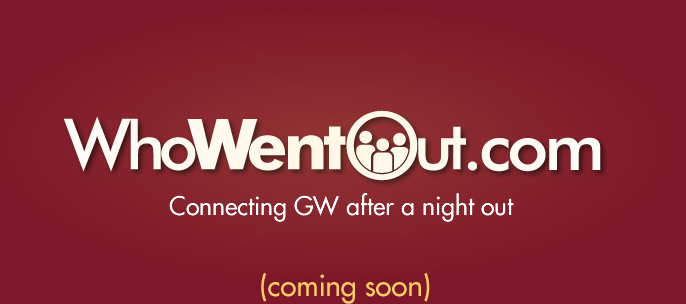
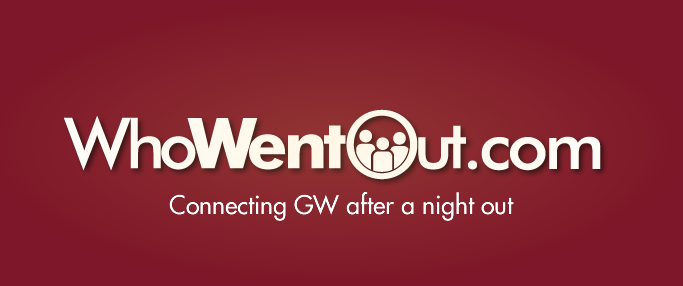
changed the layout of the landing page

Changed region(s): [[0.0922, 0.3636, 0.8917, 0.7832], [0.369, 0.8951, 0.6457, 1.0]]

diff --git a/www/landing.css b/www/landing.css
@@ -6,14 +6,20 @@ body {
   color: white;
 }
 
-#landing {
-  margin-top: 50px;
+#landing, #countdown_wrapper, #coming_soon {
+  display: block;
+  text-align: center;
+}
+
+#countdown_wrapper {
+  position: relative;
+  width: 100%;
+  height: 185px;
 }
 
 #countdown {
   position: absolute;
   overflow: hidden;
-  top: 375px;
   left: 50%;
   margin-left: -292px;
   width: 584px;

diff --git a/www/landing.php b/www/landing.php
@@ -49,31 +49,39 @@
 
 <body>
 
-<img id="landing" src="/landing.png?version=4"/>
-
-<div id="countdown" class="time_counter"
-     data-target="<?= getenv('countdown_target') ? strtotime(getenv('countdown_target'))
-             : strtotime('October 23, 2011') ?>">
-    <div class="wrap">
-        <div class="days counter" data-length="2"></div>
-        <h3>days</h3>
+    <div id="landing">
+        <img src="/landing.png?version=5"/>
     </div>
 
-    <div class="wrap">
-        <div class="hours counter" data-length="2"></div>
-        <h3>hours</h3>
+    <div id="countdown_wrapper">
+        <div id="countdown" class="time_counter"
+             data-target="<?= getenv('countdown_target') ? strtotime(getenv('countdown_target'))
+                     : strtotime('October 23, 2011') ?>">
+            <div class="wrap">
+                <div class="days counter" data-length="2"></div>
+                <h3>days</h3>
+            </div>
+
+            <div class="wrap">
+                <div class="hours counter" data-length="2"></div>
+                <h3>hours</h3>
+            </div>
+
+            <div class="wrap">
+                <div class="minutes counter" data-length="2"></div>
+                <h3>minutes</h3>
+            </div>
+
+            <div class="wrap">
+                <div class="seconds counter" data-length="2"></div>
+                <h3>seconds</h3>
+            </div>
+        </div>
     </div>
 
-    <div class="wrap">
-        <div class="minutes counter" data-length="2"></div>
-        <h3>minutes</h3>
+    <div id="coming_soon">
+        <img src="/coming_soon.png?version=1"/>
     </div>
-
-    <div class="wrap">
-        <div class="seconds counter" data-length="2"></div>
-        <h3>seconds</h3>
-    </div>
-</div>
 
 </body>
 </html>
